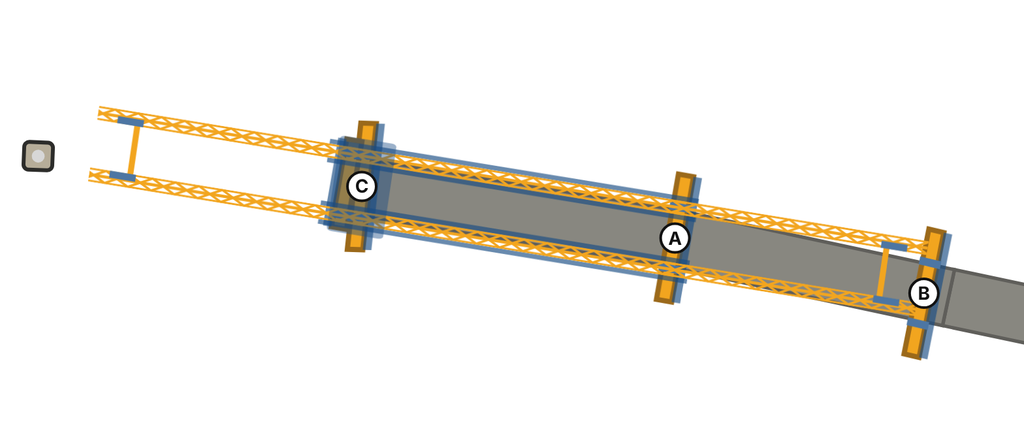
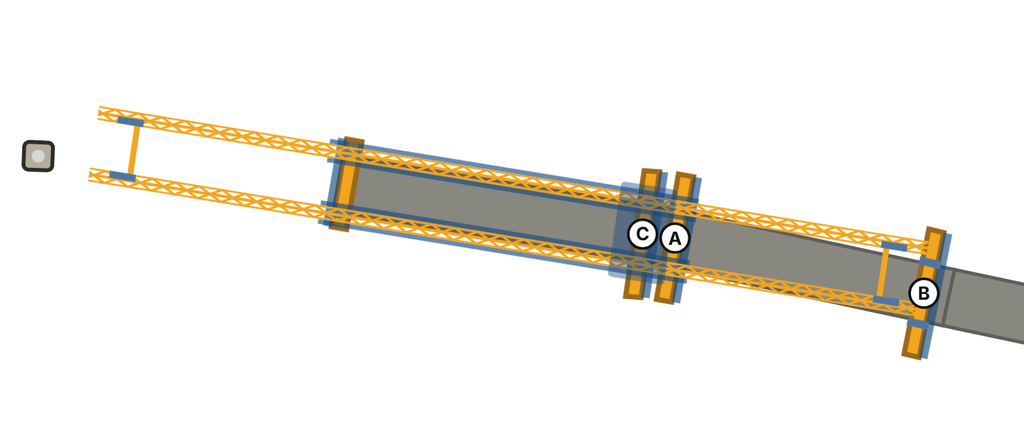
Update the gantry animation steps table and pictures for the new support moves
Claude-Session: https://claude.ai/code/session_015LPAcVzxesVnab38S8qd1b

Changed region(s): [[0.3125, 0.2715, 0.4062, 0.6032], [0.5938, 0.3921, 0.6562, 0.6937]]

diff --git a/docs/animation-steps/README.md b/docs/animation-steps/README.md
@@ -1,7 +1,7 @@
 # Gantry animation steps
 
 The steps of the Clayton Clipper's move in `src/MapView/gantryAnimation.js`, with the gantry, concrete guideway supports and finished spans
-after each one. The pictures are from the Horizontal view, on the gantry's move from span 103 to span 104. Steps 1, 2 and 14, where Support C lies across a double girder span, also
+after each one. The pictures are from the Horizontal view, on the gantry's move from span 103 to span 104. Steps 1, 2 and 19, where Support C lies across a double girder span, also
 have a picture from the move from span 44 to span 45.
 
 In the step pictures, A, B and C mark the gantry's three wide supports. Each letter stays with its piece of the drawing
@@ -13,29 +13,32 @@ lifting jacks at the ends of the trusses aren't drawn on the map, so they are on
 
 ![The gantry's supports and trolley crane, labelled](gantry-parts.png)
 
-| Step          | Movement                                                                                                                                                                                                                                                                                                                                                                                                                                                                          | Stops when                                                                                                                                                        | After                                                                                                                                                 |
-| ------------- | --------------------------------------------------------------------------------------------------------------------------------------------------------------------------------------------------------------------------------------------------------------------------------------------------------------------------------------------------------------------------------------------------------------------------------------------------------------------------------- | ----------------------------------------------------------------------------------------------------------------------------------------------------------------- | ----------------------------------------------------------------------------------------------------------------------------------------------------- |
-| Initial state | The span fill animation has just finished, and the blue hangers are still on. The fill stands for over 30 hours of work, from the "hanging" observation to the "cables down" observation. The segments aren't really hung in order from 1 to 12: there is a fixed pattern, simplified here for the animation.                                                                                                                                                                     |                                                                                                                                                                   | ![Initial state](initial-state.png)                                                                                                                   |
-| 1             | The trolley slides from where it is; there, the blue hangers on the finished span come down.                                                                                                                                                                                                                                                                                                                                                                                      | It is over the centre of Support C.                                                                                                                               | ![After step 1](step-01.png)<br>On a double girder span (span 44 to span 45):<br>![After step 1 on a double girder span](step-01-double-girder.png)   |
-| 2             | The trolley lifts Support C, and they move forward together: the first part of its trip. On a double girder span Support C is drawn turned across the span, so when it is picked up there it first turns a quarter turn clockwise.                                                                                                                                                                                                                                                | It has gone halfway along the trusses towards Support A's place on the next span (`FOURTH_TURNS_AT`).                                                             | ![After step 2](step-02.png)<br>On a double girder span (span 44 to span 45):<br>![After step 2 on a double girder span](step-02-double-girder.png)   |
-| 3             | Support C turns so it is perpendicular to the guideway.                                                                                                                                                                                                                                                                                                                                                                                                                           | It is perpendicular to the guideway (at Support A's angle on the next span).                                                                                      | ![After step 3](step-03.png)                                                                                                                          |
-| 4             | The rest of Support C's trip, with the trolley. The trolley then lowers Support C.                                                                                                                                                                                                                                                                                                                                                                                                | It is just behind the front support (on Support A's place on the next span).                                                                                      | ![After step 4](step-04.png)                                                                                                                          |
-| 5             | The trolley slides back. The trolley has to be sitting over one of the three wide supports any time the trusses move.                                                                                                                                                                                                                                                                                                                                                             | It is over the centre of Support A.                                                                                                                               | ![After step 5](step-05.png)                                                                                                                          |
-| 6             | The trusses slide back so they can pick up the front support.                                                                                                                                                                                                                                                                                                                                                                                                                     | The front tip is over the centre of the front support, nudged by 8 units along the trusses (`PICKUP`).                                                            | ![After step 6](step-06.png)                                                                                                                          |
-| 7             | The front lifting jacks raise the front support, and the trusses carry it forward, the first part of its trip.                                                                                                                                                                                                                                                                                                                                                                    | Their rear tips are over the centre of Support B, or the front support's whole trip (steps 7 and 8) is done, if that comes first.                                 | ![After step 7](step-07.png)                                                                                                                          |
-| 8             | The rear lifting jacks raise Support B, then the trusses carry the front support the rest of its trip, with Support B riding along.                                                                                                                                                                                                                                                                                                                                               | It is the right distance from Support A for its place on the next span (step 9 swings it the rest of the way on a curve).                                         | ![After step 8](step-08.png)                                                                                                                          |
-| 9             | The trusses pivot on Support A, and their front end swings, carrying the front support. The trolley, parked over Support A, turns where it is. Support B stays raised on the rear lifting jacks as a counterweight for the front support. Skipped when it would move things less than 2 pixels on the screen (`UNSEEN`), as on straight track.                                                                                                                                    | The front support is on its place on the next span.                                                                                                               | ![After step 9](step-09.png)                                                                                                                          |
-| 10            | The front lifting jacks lower the front support onto its place. The trusses swing back the same way, and at the same time the front support turns about its own centre. At the end of the swing, with the trusses back in line, the rear lifting jacks lower Support B. Each part is skipped when it would move things less than 2 pixels on the screen (`UNSEEN`): the swing back when step 9 was skipped, the front support's turn when the ends of its beam would hardly move. | The trusses are back where they were before step 9, and the front support is at the angle it has on the next span.                                                | ![After step 10](step-10.png)                                                                                                                         |
-| 11            | The trusses slide back. Support B and the front support stay where they are. If steps 9 and 10 were skipped, the rear lifting jacks lower Support B first.                                                                                                                                                                                                                                                                                                                        | Their centre is halfway between Support C and Support A.                                                                                                          | ![After step 11](step-11.png)                                                                                                                         |
-| 12            | The trolley slides back.                                                                                                                                                                                                                                                                                                                                                                                                                                                          | It is over the centre of Support B.                                                                                                                               | ![After step 12](step-12.png)                                                                                                                         |
-| 13            | The trolley lifts Support B, which turns about its own centre.                                                                                                                                                                                                                                                                                                                                                                                                                    | It lies lengthwise, the way Support C lies on the next span (step 14 turns it across on a double girder span); of the ways round, the one nearest a quarter turn. | ![After step 13](step-13.png)                                                                                                                         |
-| 14            | The trolley carries Support B forward, with a small move sideways that only the support makes. On a double girder span it is then turned across the span: a quarter turn about its centre. The trolley then lowers Support B.                                                                                                                                                                                                                                                     | Support B is on Support C's place on the next span.                                                                                                               | ![After step 14](step-14.png)<br>On a double girder span (span 44 to span 45):<br>![After step 14 on a double girder span](step-14-double-girder.png) |
-| 15            | The trolley slides on its own, leaving Support B where step 14 put it.                                                                                                                                                                                                                                                                                                                                                                                                            | It is over the centre of Support C.                                                                                                                               | ![After step 15](step-15.png)                                                                                                                         |
-| 16            | The trusses slide forward.                                                                                                                                                                                                                                                                                                                                                                                                                                                        | Their front ends (where the yellow truss lines stop) are 2 units past the front support's front edge (`GAP`).                                                     | ![After step 16](step-16.png)                                                                                                                         |
-| 17            | The trusses shift straight across and turn about Support C's centre, where the trolley is parked. Skipped when it would move things less than 2 pixels on the screen (`UNSEEN`), as on straight track.                                                                                                                                                                                                                                                                            | They are on the line they have on the next span: through the place their centre goes, at their angle there.                                                       | ![After step 17](step-17.png)                                                                                                                         |
-| 18            | The trusses slide forward. **Not worked out yet:** this is really two parts, and for the first part the trolley crane is anchored to Support A, not Support C.                                                                                                                                                                                                                                                                                                                    | Their rear ends (where the yellow truss lines stop at the back) are over the centre of Support A (`REAR_PAST`, 0).                                                | ![After step 18](step-18.png)                                                                                                                         |
-| 19            | The rear lifting jacks raise Support A, and the trusses carry it forward and turn it, with a small move sideways that only the support makes. **This step is wrong:** the real gantry doesn't move this support this way, and how or when it really gets moved isn't known yet.                                                                                                                                                                                                   | It is on Support B's place on the next span, at the angle Support B has there.                                                                                    | ![After step 19](step-19.png)                                                                                                                         |
-| 20            | The rear lifting jacks lower Support A, and the trusses slide forward on their own. Skipped when it would move things less than 2 pixels on the screen (`UNSEEN`), as on straight track. Step 19 usually leaves them all but there.                                                                                                                                                                                                                                               | Their centre is on its place on the next span.                                                                                                                    | ![After step 20](step-20.png)                                                                                                                         |
-| 21            | The trolley drives back. If step 20 was skipped, the rear lifting jacks lower Support A first.                                                                                                                                                                                                                                                                                                                                                                                    | It is where it started on the trusses.                                                                                                                            | ![After step 21](step-21.png)                                                                                                                         |
-| 22            | The drawing snaps to the gantry on the next span, span 104, not yet hung. The supports look the same, but the letters jump: each piece goes back to its own place, as in the initial state.                                                                                                                                                                                                                                                                                       |                                                                                                                                                                   | ![After step 22](step-22.png)                                                                                                                         |
-| Repeat        | The span fill animation runs on the next span, span 104, and the blue hangers go on: the initial state again, one span further on. The steps then repeat from step 1.                                                                                                                                                                                                                                                                                                             |                                                                                                                                                                   | ![Repeat](repeat.png)                                                                                                                                 |
+| Step          | Movement                                                                                                                                                                                                                                                                                                                                                                                                                                                                           | Stops when                                                                                                                                                        | After                                                                                                                                                 |
+| ------------- | ---------------------------------------------------------------------------------------------------------------------------------------------------------------------------------------------------------------------------------------------------------------------------------------------------------------------------------------------------------------------------------------------------------------------------------------------------------------------------------- | ----------------------------------------------------------------------------------------------------------------------------------------------------------------- | ----------------------------------------------------------------------------------------------------------------------------------------------------- |
+| Initial state | The span fill animation has just finished, and the blue hangers are still on. The fill stands for over 30 hours of work, from the "hanging" observation to the "cables down" observation. The segments aren't really hung in order from 1 to 12: there is a fixed pattern, simplified here for the animation.                                                                                                                                                                      |                                                                                                                                                                   | ![Initial state](initial-state.png)                                                                                                                   |
+| 1             | The trolley slides from where it is; there, the blue hangers on the finished span come down.                                                                                                                                                                                                                                                                                                                                                                                       | It is over the centre of Support C.                                                                                                                               | ![After step 1](step-01.png)<br>On a double girder span (span 44 to span 45):<br>![After step 1 on a double girder span](step-01-double-girder.png)   |
+| 2             | The trolley lifts Support C, and they move forward together: the first part of its trip. On a double girder span Support C is drawn turned across the span, so when it is picked up there it first turns a quarter turn clockwise.                                                                                                                                                                                                                                                 | It has gone halfway along the trusses towards Support A's place on the next span (`FOURTH_TURNS_AT`).                                                             | ![After step 2](step-02.png)<br>On a double girder span (span 44 to span 45):<br>![After step 2 on a double girder span](step-02-double-girder.png)   |
+| 3             | Support C turns so it is perpendicular to the guideway.                                                                                                                                                                                                                                                                                                                                                                                                                            | It is perpendicular to the guideway (at Support A's angle on the next span).                                                                                      | ![After step 3](step-03.png)                                                                                                                          |
+| 4             | The trolley backs up with Support C and sets it down in front of Support A, where it stays for the rest of the move. As it goes, Support C turns the last little bit to the angle it has on the next span (little or nothing on straight track). The trolley then lowers Support C.                                                                                                                                                                                                | It is on Support B's place on the next span, at the angle Support B has there.                                                                                    | ![After step 4](step-04.png)                                                                                                                          |
+| 5             | The trolley slides back. The trolley has to be sitting over one of the three wide supports any time the trusses move.                                                                                                                                                                                                                                                                                                                                                              | It is over the centre of Support A.                                                                                                                               | ![After step 5](step-05.png)                                                                                                                          |
+| 6             | The trolley lifts Support A and backs up a little with it.                                                                                                                                                                                                                                                                                                                                                                                                                         | It has gone back 20 units along the trusses (`BACK_UP`).                                                                                                          | ![After step 6](step-06.png)                                                                                                                          |
+| 7             | Support A turns sideways about its own centre, to lie lengthwise, the way Support C lay when the trolley carried it in step 2.                                                                                                                                                                                                                                                                                                                                                     | It lies lengthwise, the way Support C did in step 2 (a quarter turn across from that on a double girder span); of the ways round, the one nearest a quarter turn. | ![After step 7](step-07.png)                                                                                                                          |
+| 8             | The trolley carries Support A forward: the first part of its trip.                                                                                                                                                                                                                                                                                                                                                                                                                 | It has gone halfway along the trusses towards Support A's place on the next span (`FOURTH_TURNS_AT`).                                                             | ![After step 8](step-08.png)                                                                                                                          |
+| 9             | Support A turns so it is perpendicular to the guideway.                                                                                                                                                                                                                                                                                                                                                                                                                            | It is perpendicular to the guideway (at Support A's angle on the next span).                                                                                      | ![After step 9](step-09.png)                                                                                                                          |
+| 10            | The rest of Support A's trip, with the trolley. The trolley then lowers Support A.                                                                                                                                                                                                                                                                                                                                                                                                 | It is just behind the front support (on Support A's place on the next span).                                                                                      | ![After step 10](step-10.png)                                                                                                                         |
+| 11            | The trusses slide back so they can pick up the front support.                                                                                                                                                                                                                                                                                                                                                                                                                      | The front tip is over the centre of the front support, nudged by 8 units along the trusses (`PICKUP`).                                                            | ![After step 11](step-11.png)                                                                                                                         |
+| 12            | The front lifting jacks raise the front support, and the trusses carry it forward, the first part of its trip.                                                                                                                                                                                                                                                                                                                                                                     | Their rear tips are over the centre of Support B, or the front support's whole trip (steps 12 and 13) is done, if that comes first.                               | ![After step 12](step-12.png)                                                                                                                         |
+| 13            | The rear lifting jacks raise Support B, then the trusses carry the front support the rest of its trip, with Support B riding along.                                                                                                                                                                                                                                                                                                                                                | It is the right distance from Support A for its place on the next span (step 14 swings it the rest of the way on a curve).                                        | ![After step 13](step-13.png)                                                                                                                         |
+| 14            | The trusses pivot on Support A, and their front end swings, carrying the front support. The trolley, parked over Support A, turns where it is. Support B stays raised on the rear lifting jacks as a counterweight for the front support. Skipped when it would move things less than 2 pixels on the screen (`UNSEEN`), as on straight track.                                                                                                                                     | The front support is on its place on the next span.                                                                                                               | ![After step 14](step-14.png)                                                                                                                         |
+| 15            | The front lifting jacks lower the front support onto its place. The trusses swing back the same way, and at the same time the front support turns about its own centre. At the end of the swing, with the trusses back in line, the rear lifting jacks lower Support B. Each part is skipped when it would move things less than 2 pixels on the screen (`UNSEEN`): the swing back when step 14 was skipped, the front support's turn when the ends of its beam would hardly move. | The trusses are back where they were before step 14, and the front support is at the angle it has on the next span.                                               | ![After step 15](step-15.png)                                                                                                                         |
+| 16            | The trusses slide back. Support B and the front support stay where they are. If steps 14 and 15 were skipped, the rear lifting jacks lower Support B first.                                                                                                                                                                                                                                                                                                                        | Their centre is halfway between Support C and Support A.                                                                                                          | ![After step 16](step-16.png)                                                                                                                         |
+| 17            | The trolley slides back.                                                                                                                                                                                                                                                                                                                                                                                                                                                           | It is over the centre of Support B.                                                                                                                               | ![After step 17](step-17.png)                                                                                                                         |
+| 18            | The trolley lifts Support B, which turns about its own centre.                                                                                                                                                                                                                                                                                                                                                                                                                     | It lies lengthwise, the way Support C lies on the next span (step 19 turns it across on a double girder span); of the ways round, the one nearest a quarter turn. | ![After step 18](step-18.png)                                                                                                                         |
+| 19            | The trolley carries Support B forward, with a small move sideways that only the support makes. On a double girder span it is then turned across the span: a quarter turn about its centre. The trolley then lowers Support B.                                                                                                                                                                                                                                                      | Support B is on Support C's place on the next span.                                                                                                               | ![After step 19](step-19.png)<br>On a double girder span (span 44 to span 45):<br>![After step 19 on a double girder span](step-19-double-girder.png) |
+| 20            | The trolley slides on its own, leaving Support B where step 19 put it.                                                                                                                                                                                                                                                                                                                                                                                                             | It is over the centre of Support C.                                                                                                                               | ![After step 20](step-20.png)                                                                                                                         |
+| 21            | The trusses slide forward.                                                                                                                                                                                                                                                                                                                                                                                                                                                         | Their front ends (where the yellow truss lines stop) are 2 units past the front support's front edge (`GAP`).                                                     | ![After step 21](step-21.png)                                                                                                                         |
+| 22            | The trusses shift straight across and turn about Support C's centre, where the trolley is parked. Skipped when it would move things less than 2 pixels on the screen (`UNSEEN`), as on straight track.                                                                                                                                                                                                                                                                             | They are on the line they have on the next span: through the place their centre goes, at their angle there.                                                       | ![After step 22](step-22.png)                                                                                                                         |
+| 23            | The trusses slide forward on their own. Skipped when it would move things less than 2 pixels on the screen (`UNSEEN`), as on straight track.                                                                                                                                                                                                                                                                                                                                       | Their centre is on its place on the next span.                                                                                                                    | ![After step 23](step-23.png)                                                                                                                         |
+| 24            | The trolley drives back.                                                                                                                                                                                                                                                                                                                                                                                                                                                           | It is where it started on the trusses.                                                                                                                            | ![After step 24](step-24.png)                                                                                                                         |
+| 25            | The drawing snaps to the gantry on the next span, span 104, not yet hung. The supports look the same, but the letters on Support B and Support C swap: each piece goes back to its own place, as in the initial state. Support A's piece is already in its place.                                                                                                                                                                                                                  |                                                                                                                                                                   | ![After step 25](step-25.png)                                                                                                                         |
+| Repeat        | The span fill animation runs on the next span, span 104, and the blue hangers go on: the initial state again, one span further on. The steps then repeat from step 1.                                                                                                                                                                                                                                                                                                              |                                                                                                                                                                   | ![Repeat](repeat.png)                                                                                                                                 |
